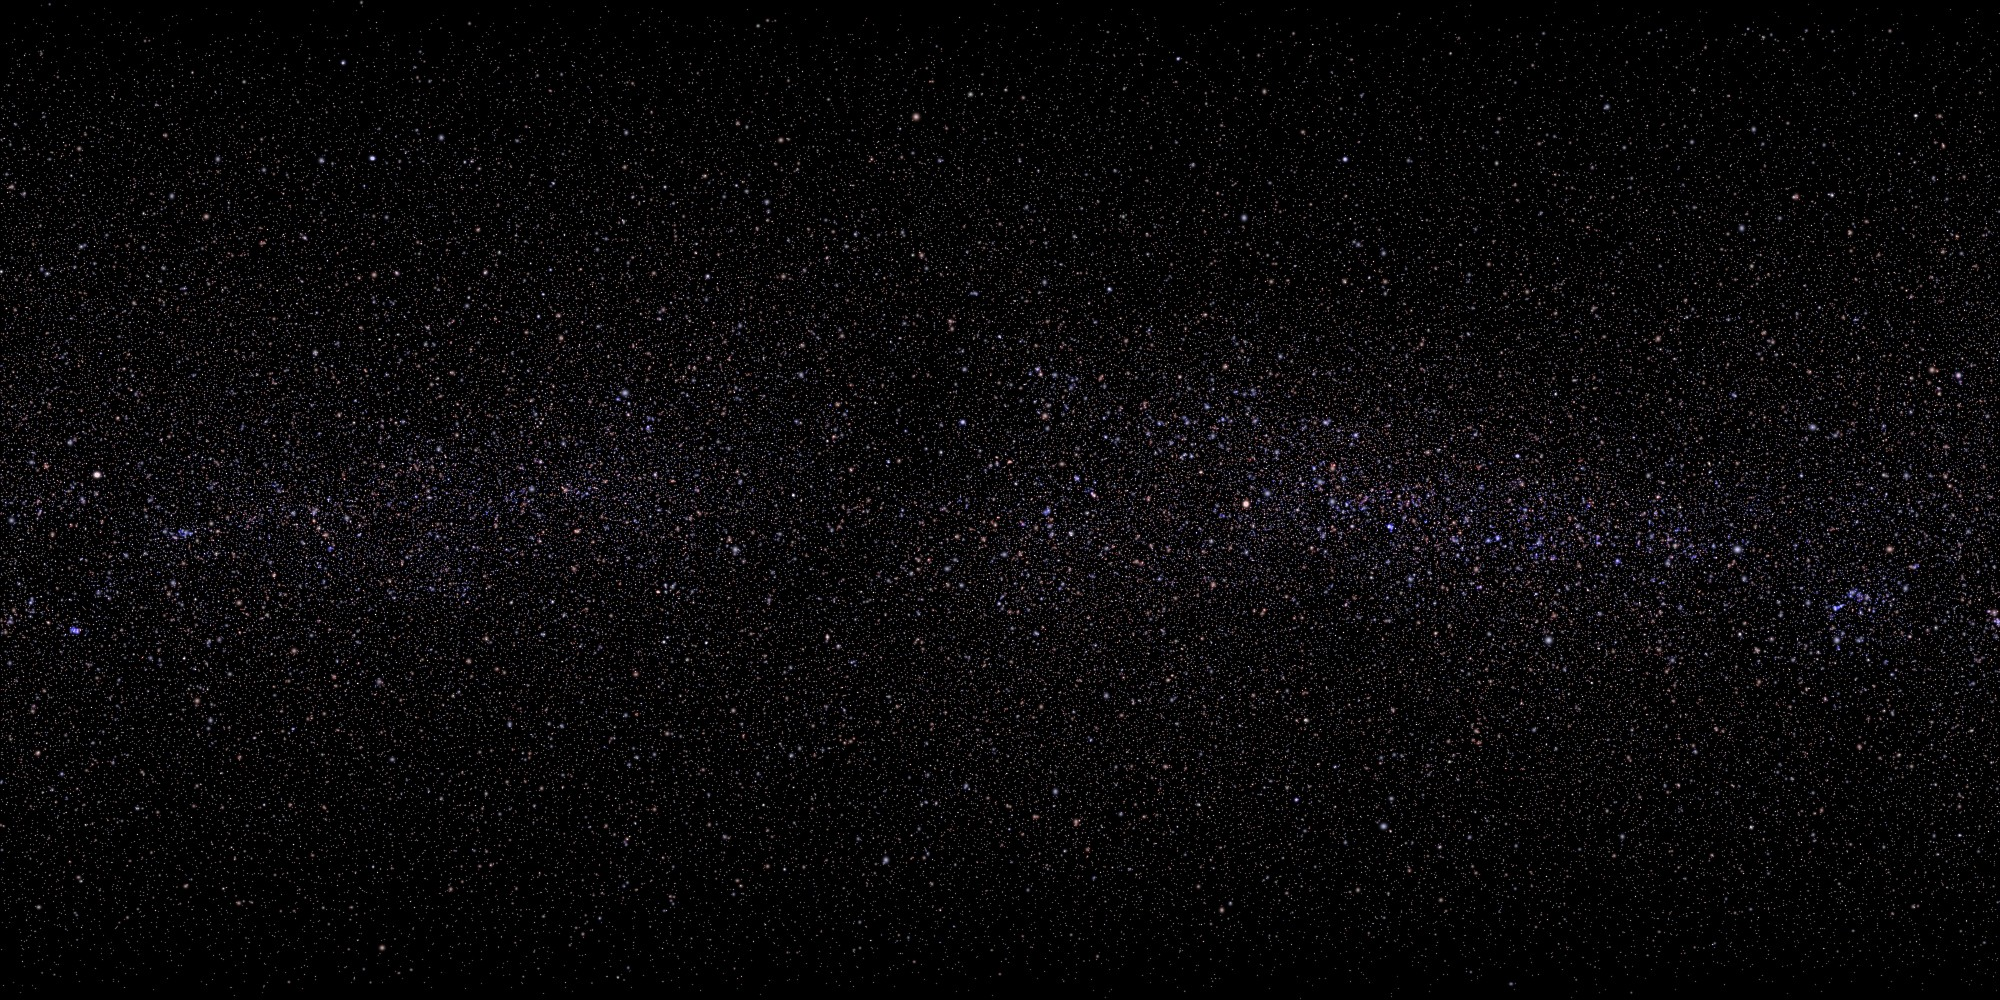
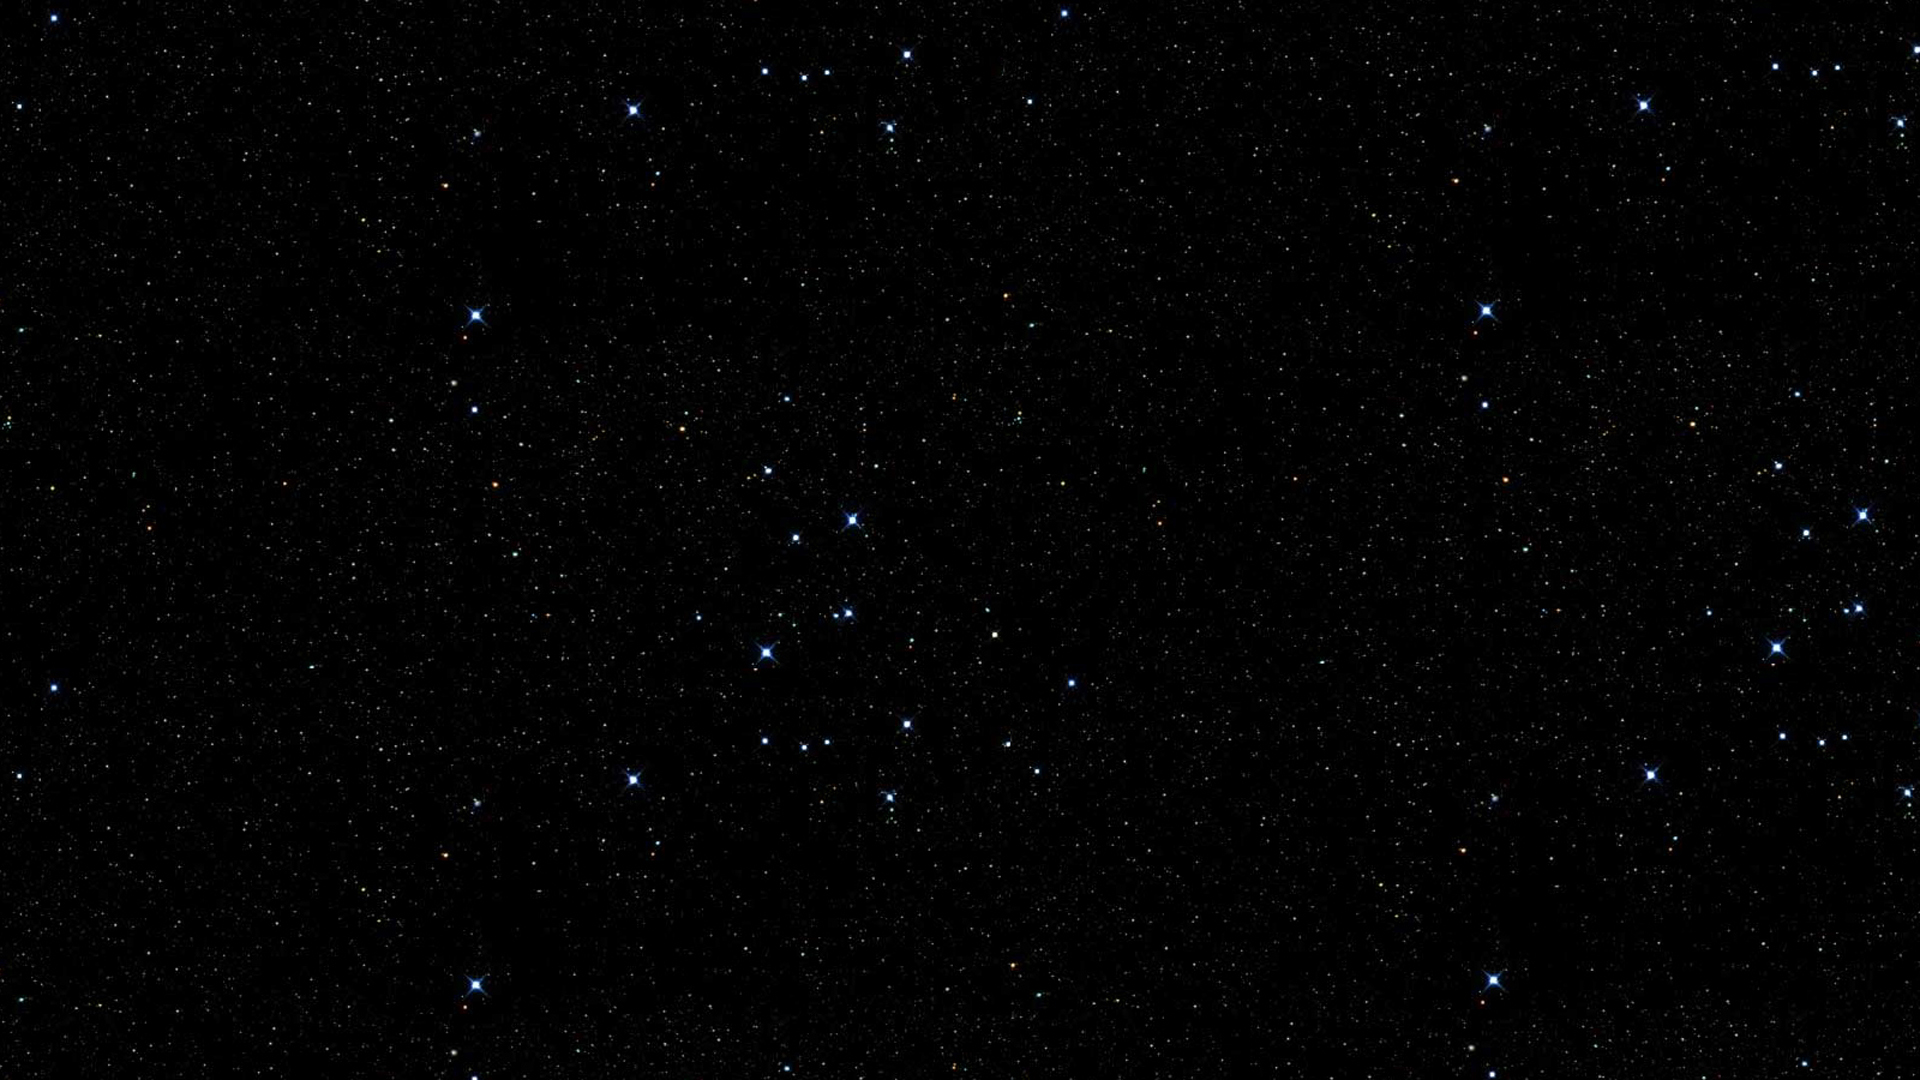
Fixed Errors, Added in Shaders/Stars

diff --git a/services/threejs.js b/services/threejs.js
@@ -42,11 +42,13 @@ function ThreeJS (WorkerManager) {
     $container.append(renderer.domElement);
 
     // Set the skybox properties.
-    var skybox_radius      = 100000,
+    var skybox_radius      = 18000,
         skybox_segments    = 500,
         skybox_rings       = 100;
+    var neheTexture = new THREE.ImageUtils.loadTexture("../img/stars.jpg");
     var skybox_sphere      = new THREE.SphereGeometry( skybox_radius, skybox_segments, skybox_rings );
-    var skybox_material    = new THREE.MeshBasicMaterial({ color: 0x020202, wireframe: false, side: THREE.BackSide});
+    var skybox_material    = new THREE.MeshBasicMaterial({ map:neheTexture, wireframe: false, side: THREE.BackSide});
+	
     // Create map 3D object
     skybox = new THREE.Mesh(skybox_sphere, skybox_material);
 
@@ -59,6 +61,28 @@ function ThreeJS (WorkerManager) {
     var earth_material    = new THREE.MeshPhongMaterial({ map : earth_texture, wireframe: false, shininess: 1 });
     // Create map 3D object
     earth = new THREE.Mesh(earth_sphere, earth_material);
+	
+// create custom material from the shader code above
+	//   that is within specially labeled script tags
+	var customMaterial = new THREE.ShaderMaterial( 
+	{
+	    uniforms: {  },
+		vertexShader:   document.getElementById('vertexShader').textContent,
+		fragmentShader: document.getElementById('fragmentShader').textContent,
+		side: THREE.BackSide,
+		blending: THREE.AdditiveBlending,
+		transparent: true
+	}   );
+
+	var ballGeometry = new THREE.SphereGeometry( EARTH_RADIUS + 20, 500, 100 );
+	var ball = new THREE.Mesh( ballGeometry, customMaterial );
+	scene.add( ball );
+
+
+
+
+		
+
 	
 
     // Initialize the space camera.
@@ -85,7 +109,12 @@ function ThreeJS (WorkerManager) {
     scene.add(ambient_light);
     // when window is ready, render
     renderer.render(scene, current_camera);
+	
+
+	
     THREEx.WindowResize(renderer, current_camera);
+	
+	 
   };
 
   var three_d_running = false;
